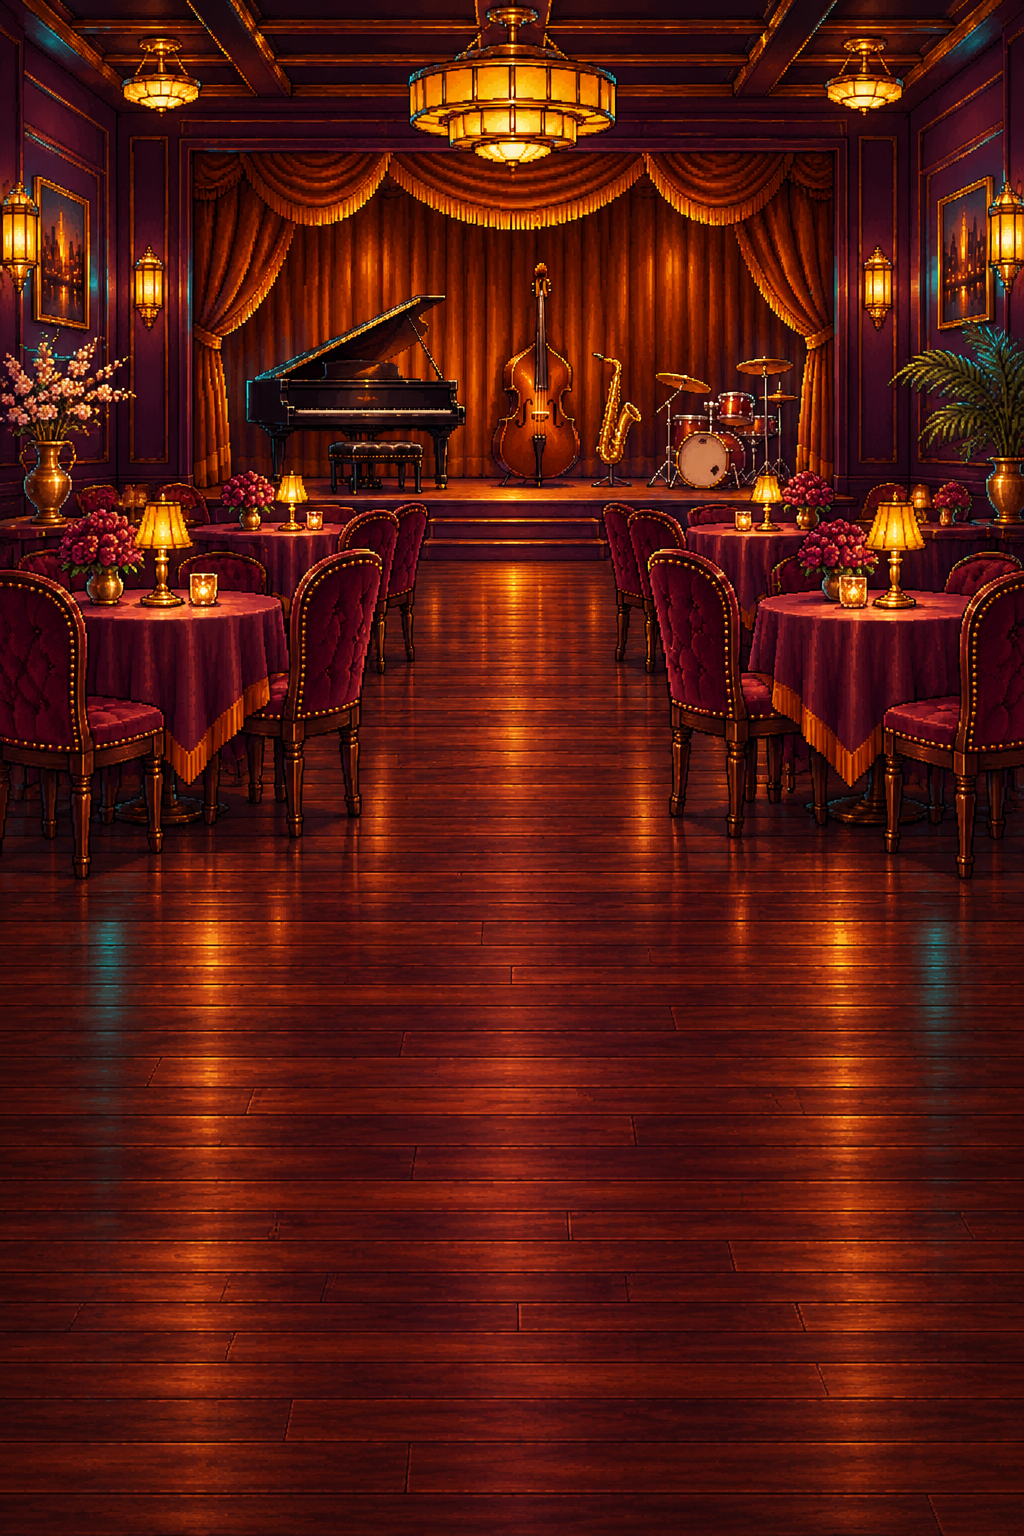
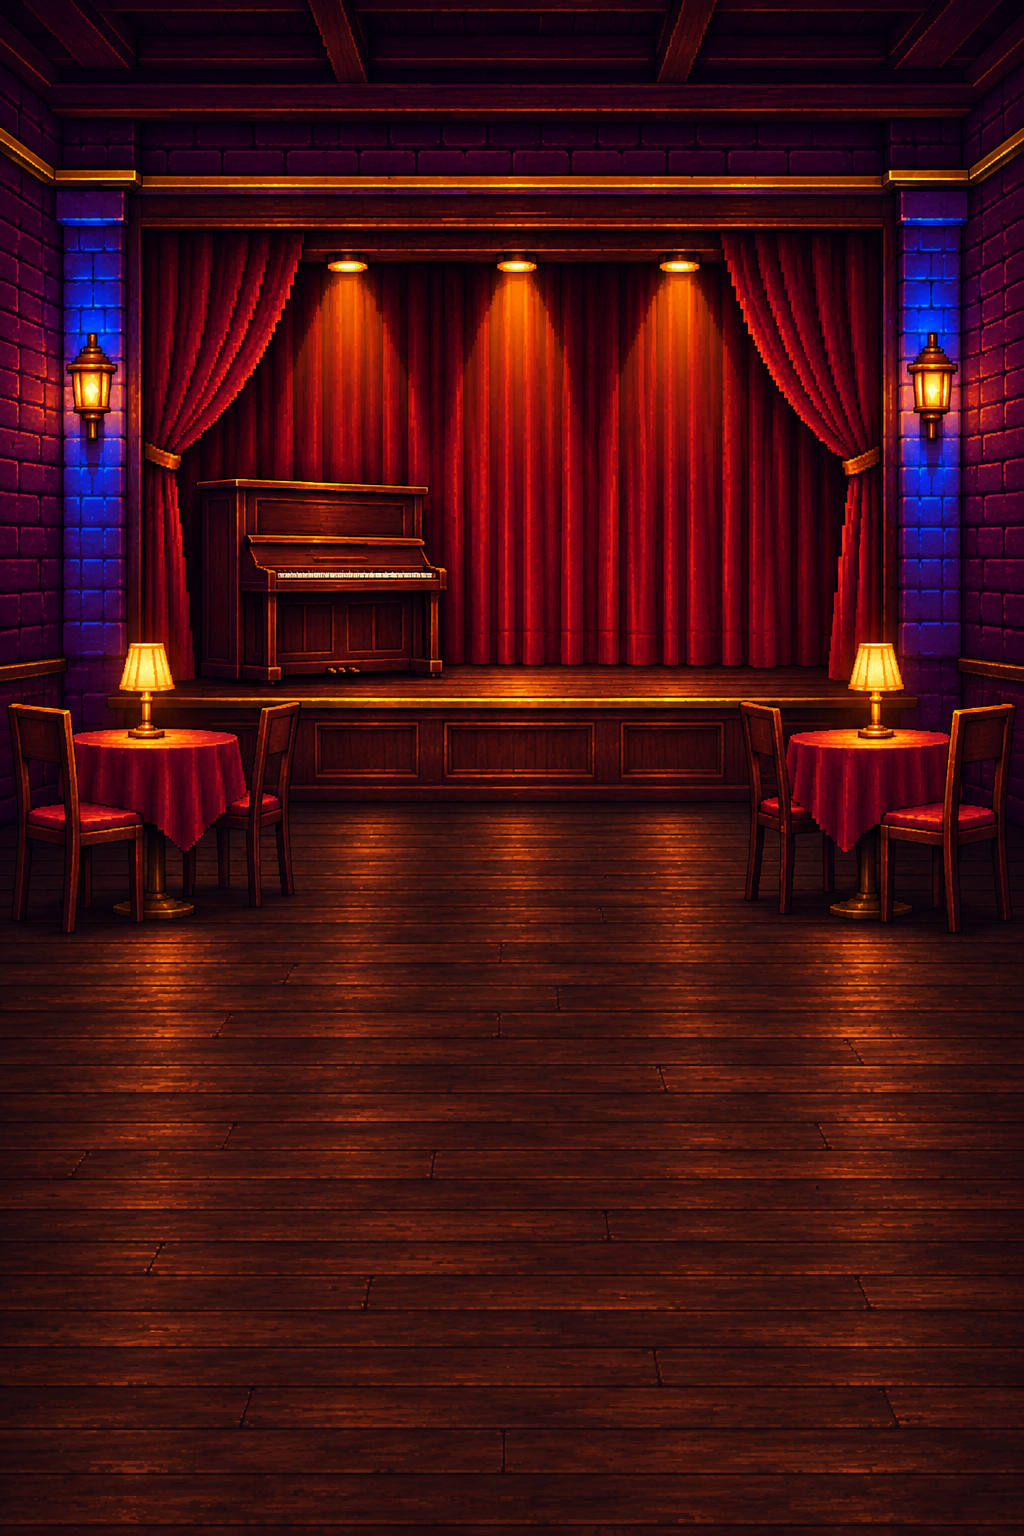
BTH-ENVART-001 integrate audited Jazz doorway R1

diff --git a/docs/plans/0.6.1_stability_release_plan.md b/docs/plans/0.6.1_stability_release_plan.md
@@ -670,7 +670,7 @@ Acceptance subitems keep their parent IDs; checking a subitem never closes its u
 | BTH-ENVART-001-DOOR-BAR-01 | Update bar doorway | BTH-ENVART-001 | Current owner-requested environment art rollout | Open | Native PASS and TEST artifact verified; live Web acceptance pending | 8e35e8bf8596 | Owner TEST review; continue nine remaining doorways. No main/NEXT. |
 | BTH-ENVART-001-DOOR-MOTEL-01 | Update motel doorway | BTH-ENVART-001 | Current owner-requested environment art rollout | Open | Native PASS and TEST artifact verified; live Web acceptance pending | 3e75b8ace30d | Owner TEST review; continue eight remaining doorways. No main/NEXT. |
 | BTH-ENVART-001-DOOR-PAWN-SHOP-01 | Update pawn shop doorway | BTH-ENVART-001 | Current owner-requested environment art rollout | Open | Pawn R1 native PASS; TEST artifact verified; live Web acceptance pending | 94cc38d24138 | Owner live TEST acceptance; continue seven doorways. |
-| BTH-ENVART-001-DOOR-JAZZ-CLUB-01 | Update jazz club doorway | BTH-ENVART-001 | Current owner-requested environment art rollout | Open | Jazz source static GO; isolated native trial preparation | — | Complete isolated native gates and final audit. |
+| BTH-ENVART-001-DOOR-JAZZ-CLUB-01 | Update jazz club doorway | BTH-ENVART-001 | Current owner-requested environment art rollout | Open | Jazz R1 scoped native audit PASS; TEST delivery pending | — | Verify cumulative TEST delivery. |
 | BTH-ENVART-001-DOOR-SMALL-UNDERGROUND-CASINO-01 | Update small underground casino doorway | BTH-ENVART-001 | Current owner-requested environment art rollout | Open | Source planning; baseline and individual art brief pending | — | Capture source-controlled aperture and cinematic baseline, then director brief and audited source. |
 | BTH-ENVART-001-DOOR-KITTY-CAT-LOUNGE-01 | Update kitty cat lounge doorway | BTH-ENVART-001 | Current owner-requested environment art rollout | Open | Source planning; baseline and individual art brief pending | — | Capture source-controlled aperture and cinematic baseline, then director brief and audited source. |
 | BTH-ENVART-001-DOOR-GRAND-CASINO-01 | Update grand casino doorway | BTH-ENVART-001 | Current owner-requested environment art rollout | Open | Source planning; baseline and individual art brief pending | — | Capture source-controlled aperture and cinematic baseline, then director brief and audited source. |

diff --git a/assets/art/travel/doorways/residential_doorways_generation.md b/assets/art/travel/doorways/residential_doorways_generation.md
@@ -55,3 +55,7 @@ Use case: stylized-concept. Asset type: opaque portrait doorway interior backgro
 ## Motel public reception replacement, 2026-11-15
 
 One generated source accepted unchanged at 1024x1536 RGB under docs/art/briefs/motel_doorway.md, using current approved public reception and facade. Earlier Motel prompt describes the superseded asset. Exact PNG SHA-256: 25323697bdfbea31291fdb1ae997070c74d42f3dfe065ffd068a75a7b8295ae0. Package seal: cbf95caf87d84bef565c9494b303ee4ae4b1527ffde6829464f5abd99b0f4913. Raw prompt and recipe provenance in docs/testing/motel_doorway_r1_native_trial.json. Existing rounded aperture UVs untouched: full-height cover with approximately6.8267source pixels cropped at each side, no top crop. No guest bed, runtime, timing or geometry change. Four-method native presentation passed; not legal route/load/Web certification.
+
+## Jazz Club doorway R1, 2026-11-15
+
+Replaced only jazz_club.png with approved unchanged image a5b24edfb002de23b2c5b0b664f7a23a10356d27d50c7aa5c9ad28cbcef5a900 at1024×1536. Direction docs/art/briefs/jazz_doorway.md; proof docs/testing/jazz_doorway_r1_native_trial.json. Four synthetic travel methods passed, not legal-route/loading/browser certification. Exact rounded aperture, crop, runtime and timing untouched.
